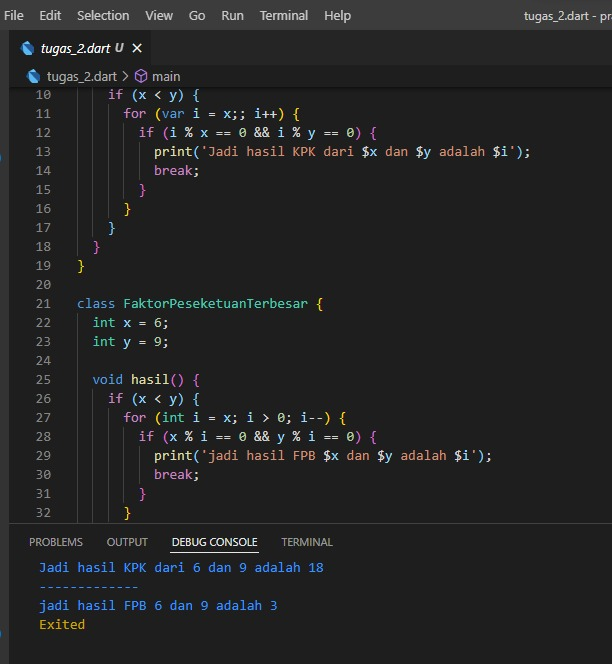
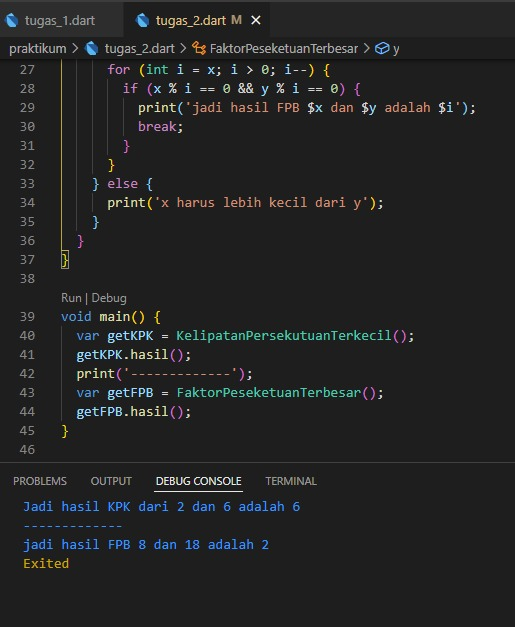
update section 9

diff --git a/10_Dart Object Oriented Programming 2/praktikum/tugas_2.dart b/10_Dart Object Oriented Programming 2/praktikum/tugas_2.dart
@@ -3,8 +3,8 @@ class Matematika {
 }
 
 class KelipatanPersekutuanTerkecil implements Matematika {
-  int x = 6;
-  int y = 9;
+  int x = 2;
+  int y = 6;
 
   void hasil() {
     if (x < y) {
@@ -18,9 +18,9 @@ class KelipatanPersekutuanTerkecil implements Matematika {
   }
 }
 
-class FaktorPeseketuanTerbesar {
-  int x = 6;
-  int y = 9;
+class FaktorPeseketuanTerbesar implements Matematika {
+  int x = 8;
+  int y = 18;
 
   void hasil() {
     if (x < y) {
